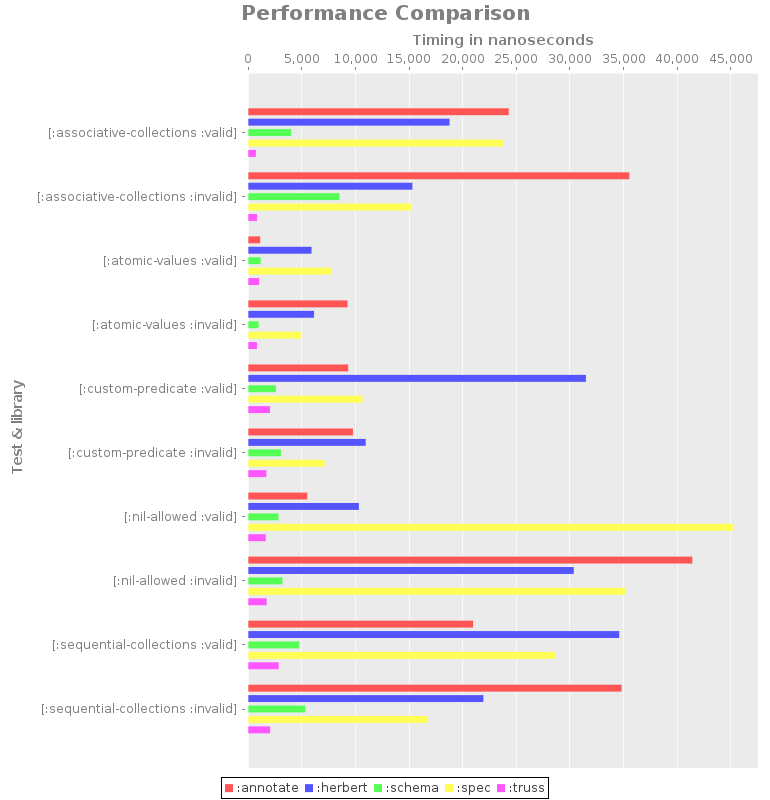
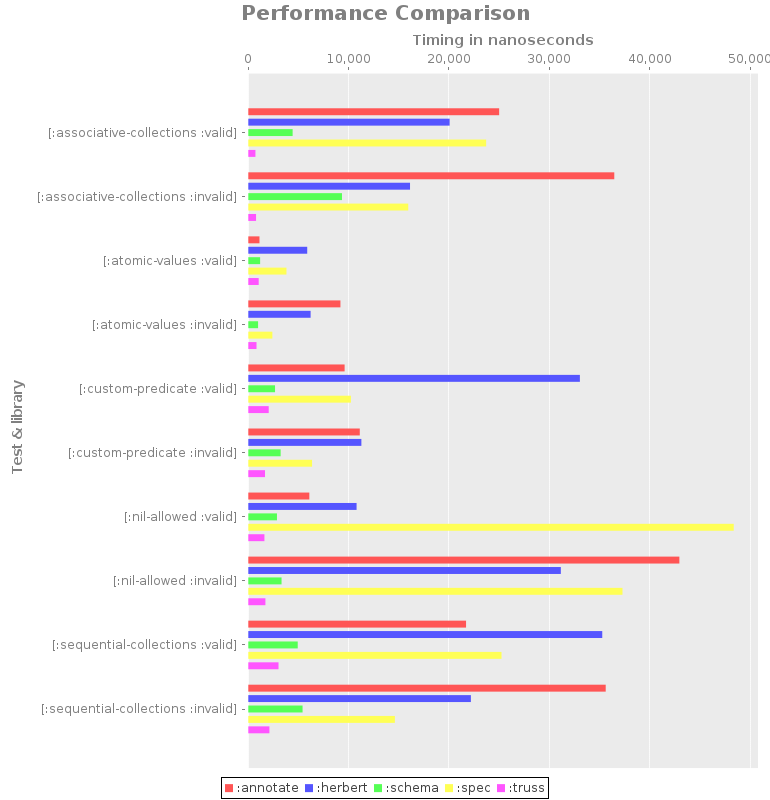
Deploy to GitHub Pages

diff --git a/index.html b/index.html
@@ -1,5 +1,5 @@
 <!DOCTYPE html>
-<html><head><link crossorigin="anonymous" href="https://maxcdn.bootstrapcdn.com/bootstrap/3.3.6/css/bootstrap.min.css" integrity="sha384-1q8mTJOASx8j1Au+a5WDVnPi2lkFfwwEAa8hDDdjZlpLegxhjVME1fgjWPGmkzs7" rel="stylesheet"><link crossorigin="anonymous" href="https://maxcdn.bootstrapcdn.com/bootstrap/3.3.6/css/bootstrap-theme.min.css" integrity="sha384-fLW2N01lMqjakBkx3l/M9EahuwpSfeNvV63J5ezn3uZzapT0u7EYsXMjQV+0En5r" rel="stylesheet"><script src="https://code.jquery.com/jquery-2.2.3.min.js"></script><script crossorigin="anonymous" integrity="sha384-0mSbJDEHialfmuBBQP6A4Qrprq5OVfW37PRR3j5ELqxss1yVqOtnepnHVP9aJ7xS" src="https://maxcdn.bootstrapcdn.com/bootstrap/3.3.6/js/bootstrap.min.js"></script></head><body data-spy="scroll" data-target="#navbar"><a href="https://github.com/muhuk/validation-benchmark"><img alt="Fork me on GitHub" data-canonical-src="https://s3.amazonaws.com/github/ribbons/forkme_right_gray_6d6d6d.png" src="https://camo.githubusercontent.com/a6677b08c955af8400f44c6298f40e7d19cc5b2d/68747470733a2f2f73332e616d617a6f6e6177732e636f6d2f6769746875622f726962626f6e732f666f726b6d655f72696768745f677261795f3664366436642e706e67" style="position: absolute; top: 0; right: 0; border: 0;"></a><div class="container"><div class="row" id="top"><div class="col-md-12"><div class="page-header"><h1>validation-benchmark <small>Updated at 2016-06-16</small></h1></div></div></div><div class="row"><div class="col-md-10"><div><h2 id="about">About</h2><div>Benchmark for Clojure validation libraries.</div><div><a href="https://github.com/muhuk/validation-benchmark">Source code</a></div></div><div><h2 id="relative-performance-table">Relative performance table</h2><table class="table table-bordered table-hover"><tr><th>Test</th><th>annotate</th><th>herbert</th><th>schema</th><th>spec</th><th>truss</th></tr><tr><td><samp>[:associative-collections :invalid]</samp></td><td class="danger" title="Absolute timing is 35543 ns.">43.507</td><td class="danger" title="Absolute timing is 15305 ns.">18.735</td><td class="danger" title="Absolute timing is 8510 ns.">10.417</td><td class="danger" title="Absolute timing is 15278 ns.">18.701</td><td class="success" title="Absolute timing is 817 ns.">1.000</td></tr><tr><td><samp>[:associative-collections :valid]</samp></td><td class="danger" title="Absolute timing is 24291 ns.">34.358</td><td class="danger" title="Absolute timing is 18766 ns.">26.544</td><td class="danger" title="Absolute timing is 3994 ns.">5.650</td><td class="danger" title="Absolute timing is 23739 ns.">33.577</td><td class="success" title="Absolute timing is 707 ns.">1.000</td></tr><tr><td><samp>[:atomic-values :invalid]</samp></td><td class="danger" title="Absolute timing is 9256 ns.">11.449</td><td class="danger" title="Absolute timing is 6132 ns.">7.585</td><td class="warning" title="Absolute timing is 961 ns.">1.189</td><td class="danger" title="Absolute timing is 4931 ns.">6.100</td><td class="success" title="Absolute timing is 808 ns.">1.000</td></tr><tr><td><samp>[:atomic-values :valid]</samp></td><td class="warning" title="Absolute timing is 1114 ns.">1.108</td><td class="danger" title="Absolute timing is 5898 ns.">5.868</td><td class="warning" title="Absolute timing is 1156 ns.">1.150</td><td class="danger" title="Absolute timing is 7727 ns.">7.688</td><td class="success" title="Absolute timing is 1005 ns.">1.000</td></tr><tr><td><samp>[:custom-predicate :invalid]</samp></td><td class="danger" title="Absolute timing is 9757 ns.">5.786</td><td class="danger" title="Absolute timing is 10950 ns.">6.494</td><td class="warning" title="Absolute timing is 3047 ns.">1.807</td><td class="danger" title="Absolute timing is 7111 ns.">4.217</td><td class="success" title="Absolute timing is 1686 ns.">1.000</td></tr><tr><td><samp>[:custom-predicate :valid]</samp></td><td class="danger" title="Absolute timing is 9321 ns.">4.600</td><td class="danger" title="Absolute timing is 31492 ns.">15.542</td><td class="warning" title="Absolute timing is 2580 ns.">1.273</td><td class="danger" title="Absolute timing is 10658 ns.">5.260</td><td class="success" title="Absolute timing is 2026 ns.">1.000</td></tr><tr><td><samp>[:nil-allowed :invalid]</samp></td><td class="danger" title="Absolute timing is 41411 ns.">24.162</td><td class="danger" title="Absolute timing is 30352 ns.">17.709</td><td class="warning" title="Absolute timing is 3189 ns.">1.860</td><td class="danger" title="Absolute timing is 35148 ns.">20.508</td><td class="success" title="Absolute timing is 1714 ns.">1.000</td></tr><tr><td><samp>[:nil-allowed :valid]</samp></td><td class="danger" title="Absolute timing is 5498 ns.">3.373</td><td class="danger" title="Absolute timing is 10315 ns.">6.329</td><td class="warning" title="Absolute timing is 2810 ns.">1.724</td><td class="danger" title="Absolute timing is 45274 ns.">27.780</td><td class="success" title="Absolute timing is 1630 ns.">1.000</td></tr><tr><td><samp>[:sequential-collections :invalid]</samp></td><td class="danger" title="Absolute timing is 34817 ns.">17.083</td><td class="danger" title="Absolute timing is 21925 ns.">10.758</td><td class="warning" title="Absolute timing is 5307 ns.">2.604</td><td class="danger" title="Absolute timing is 16720 ns.">8.204</td><td class="success" title="Absolute timing is 2038 ns.">1.000</td></tr><tr><td><samp>[:sequential-collections :valid]</samp></td><td class="danger" title="Absolute timing is 20965 ns.">7.401</td><td class="danger" title="Absolute timing is 34596 ns.">12.213</td><td class="warning" title="Absolute timing is 4755 ns.">1.679</td><td class="danger" title="Absolute timing is 28670 ns.">10.121</td><td class="success" title="Absolute timing is 2833 ns.">1.000</td></tr></table></div><div><h2 id="performance-graph">Performance Graph</h2><img src="chart.png"></div></div><div class="col-md-2" id="navbar"><ul class="nav nav-pills nav-stacked" data-spy="affix"><li><a href="#top"><span class="glyphicon glyphicon-triangle-top"></span> Top</a></li><li><a href="#about"><span class="glyphicon glyphicon-triangle-right"></span> About</a></li><li><a href="#relative-performance-table"><span class="glyphicon glyphicon-triangle-right"></span> Relative performance table</a></li><li><a href="#performance-graph"><span class="glyphicon glyphicon-triangle-right"></span> Performance Graph</a></li></ul></div></div><div class="row"><div class="col-md-10" style="margin-bottom: 6em;">&nbsp;</div></div><script>
+<html><head><link crossorigin="anonymous" href="https://maxcdn.bootstrapcdn.com/bootstrap/3.3.6/css/bootstrap.min.css" integrity="sha384-1q8mTJOASx8j1Au+a5WDVnPi2lkFfwwEAa8hDDdjZlpLegxhjVME1fgjWPGmkzs7" rel="stylesheet"><link crossorigin="anonymous" href="https://maxcdn.bootstrapcdn.com/bootstrap/3.3.6/css/bootstrap-theme.min.css" integrity="sha384-fLW2N01lMqjakBkx3l/M9EahuwpSfeNvV63J5ezn3uZzapT0u7EYsXMjQV+0En5r" rel="stylesheet"><script src="https://code.jquery.com/jquery-2.2.3.min.js"></script><script crossorigin="anonymous" integrity="sha384-0mSbJDEHialfmuBBQP6A4Qrprq5OVfW37PRR3j5ELqxss1yVqOtnepnHVP9aJ7xS" src="https://maxcdn.bootstrapcdn.com/bootstrap/3.3.6/js/bootstrap.min.js"></script></head><body data-spy="scroll" data-target="#navbar"><a href="https://github.com/muhuk/validation-benchmark"><img alt="Fork me on GitHub" data-canonical-src="https://s3.amazonaws.com/github/ribbons/forkme_right_gray_6d6d6d.png" src="https://camo.githubusercontent.com/a6677b08c955af8400f44c6298f40e7d19cc5b2d/68747470733a2f2f73332e616d617a6f6e6177732e636f6d2f6769746875622f726962626f6e732f666f726b6d655f72696768745f677261795f3664366436642e706e67" style="position: absolute; top: 0; right: 0; border: 0;"></a><div class="container"><div class="row" id="top"><div class="col-md-12"><div class="page-header"><h1>validation-benchmark <small>Updated at 2016-06-23</small></h1></div></div></div><div class="row"><div class="col-md-10"><div><h2 id="about">About</h2><p>Benchmark for Clojure validation libraries.</p><p><a href="https://github.com/muhuk/validation-benchmark">Source code</a></p><p>Following libraries are benchmarked:</p><ul><li><strong>annotate</strong> (<code>[com.roomkey/annotate "1.0.1"]</code>)</li><li><strong>herbert</strong> (<code>[com.velisco/herbert "0.7.0"]</code>)</li><li><strong>schema</strong> (<code>[prismatic/schema "1.1.2"]</code>)</li><li><strong>spec</strong> (<code>[org.clojure/clojure "1.9.0-alpha7"]</code>)</li><li><strong>truss</strong> (<code>[com.taoensso/truss "1.3.3"]</code>)</li></ul></div><div><h2 id="relative-performance-table">Relative performance table</h2><table class="table table-bordered table-hover"><tr><th>Test</th><th>annotate</th><th>herbert</th><th>schema</th><th>spec</th><th>truss</th></tr><tr><td><samp>[:associative-collections :invalid]</samp></td><td class="danger" title="Absolute timing is 36471 ns.">47.198</td><td class="danger" title="Absolute timing is 16117 ns.">20.857</td><td class="danger" title="Absolute timing is 9336 ns.">12.082</td><td class="danger" title="Absolute timing is 15940 ns.">20.628</td><td class="success" title="Absolute timing is 773 ns.">1.000</td></tr><tr><td><samp>[:associative-collections :valid]</samp></td><td class="danger" title="Absolute timing is 24998 ns.">35.191</td><td class="danger" title="Absolute timing is 20063 ns.">28.244</td><td class="danger" title="Absolute timing is 4418 ns.">6.219</td><td class="danger" title="Absolute timing is 23703 ns.">33.368</td><td class="success" title="Absolute timing is 710 ns.">1.000</td></tr><tr><td><samp>[:atomic-values :invalid]</samp></td><td class="danger" title="Absolute timing is 9182 ns.">11.222</td><td class="danger" title="Absolute timing is 6210 ns.">7.589</td><td class="warning" title="Absolute timing is 974 ns.">1.191</td><td class="warning" title="Absolute timing is 2400 ns.">2.933</td><td class="success" title="Absolute timing is 818 ns.">1.000</td></tr><tr><td><samp>[:atomic-values :valid]</samp></td><td class="warning" title="Absolute timing is 1114 ns.">1.075</td><td class="danger" title="Absolute timing is 5872 ns.">5.663</td><td class="warning" title="Absolute timing is 1178 ns.">1.137</td><td class="danger" title="Absolute timing is 3803 ns.">3.668</td><td class="success" title="Absolute timing is 1037 ns.">1.000</td></tr><tr><td><samp>[:custom-predicate :invalid]</samp></td><td class="danger" title="Absolute timing is 11109 ns.">6.671</td><td class="danger" title="Absolute timing is 11269 ns.">6.767</td><td class="warning" title="Absolute timing is 3223 ns.">1.936</td><td class="danger" title="Absolute timing is 6356 ns.">3.817</td><td class="success" title="Absolute timing is 1665 ns.">1.000</td></tr><tr><td><samp>[:custom-predicate :valid]</samp></td><td class="danger" title="Absolute timing is 9598 ns.">4.719</td><td class="danger" title="Absolute timing is 33042 ns.">16.245</td><td class="warning" title="Absolute timing is 2665 ns.">1.310</td><td class="danger" title="Absolute timing is 10227 ns.">5.028</td><td class="success" title="Absolute timing is 2034 ns.">1.000</td></tr><tr><td><samp>[:nil-allowed :invalid]</samp></td><td class="danger" title="Absolute timing is 42957 ns.">25.187</td><td class="danger" title="Absolute timing is 31145 ns.">18.261</td><td class="warning" title="Absolute timing is 3313 ns.">1.943</td><td class="danger" title="Absolute timing is 37287 ns.">21.863</td><td class="success" title="Absolute timing is 1706 ns.">1.000</td></tr><tr><td><samp>[:nil-allowed :valid]</samp></td><td class="danger" title="Absolute timing is 6083 ns.">3.782</td><td class="danger" title="Absolute timing is 10791 ns.">6.710</td><td class="warning" title="Absolute timing is 2857 ns.">1.776</td><td class="danger" title="Absolute timing is 48373 ns.">30.079</td><td class="success" title="Absolute timing is 1608 ns.">1.000</td></tr><tr><td><samp>[:sequential-collections :invalid]</samp></td><td class="danger" title="Absolute timing is 35616 ns.">16.929</td><td class="danger" title="Absolute timing is 22180 ns.">10.542</td><td class="warning" title="Absolute timing is 5407 ns.">2.570</td><td class="danger" title="Absolute timing is 14606 ns.">6.943</td><td class="success" title="Absolute timing is 2104 ns.">1.000</td></tr><tr><td><samp>[:sequential-collections :valid]</samp></td><td class="danger" title="Absolute timing is 21699 ns.">7.207</td><td class="danger" title="Absolute timing is 35272 ns.">11.715</td><td class="warning" title="Absolute timing is 4925 ns.">1.636</td><td class="danger" title="Absolute timing is 25234 ns.">8.381</td><td class="success" title="Absolute timing is 3011 ns.">1.000</td></tr></table></div><div><h2 id="performance-graph">Performance Graph</h2><img src="chart.png"></div></div><div class="col-md-2" id="navbar"><ul class="nav nav-pills nav-stacked" data-spy="affix"><li><a href="#top"><span class="glyphicon glyphicon-triangle-top"></span> Top</a></li><li><a href="#about"><span class="glyphicon glyphicon-triangle-right"></span> About</a></li><li><a href="#relative-performance-table"><span class="glyphicon glyphicon-triangle-right"></span> Relative performance table</a></li><li><a href="#performance-graph"><span class="glyphicon glyphicon-triangle-right"></span> Performance Graph</a></li></ul></div></div><div class="row"><div class="col-md-10" style="margin-bottom: 6em;">&nbsp;</div></div><script>
   (function(i,s,o,g,r,a,m){i['GoogleAnalyticsObject']=r;i[r]=i[r]||function(){
   (i[r].q=i[r].q||[]).push(arguments)},i[r].l=1*new Date();a=s.createElement(o),
   m=s.getElementsByTagName(o)[0];a.async=1;a.src=g;m.parentNode.insertBefore(a,m)
